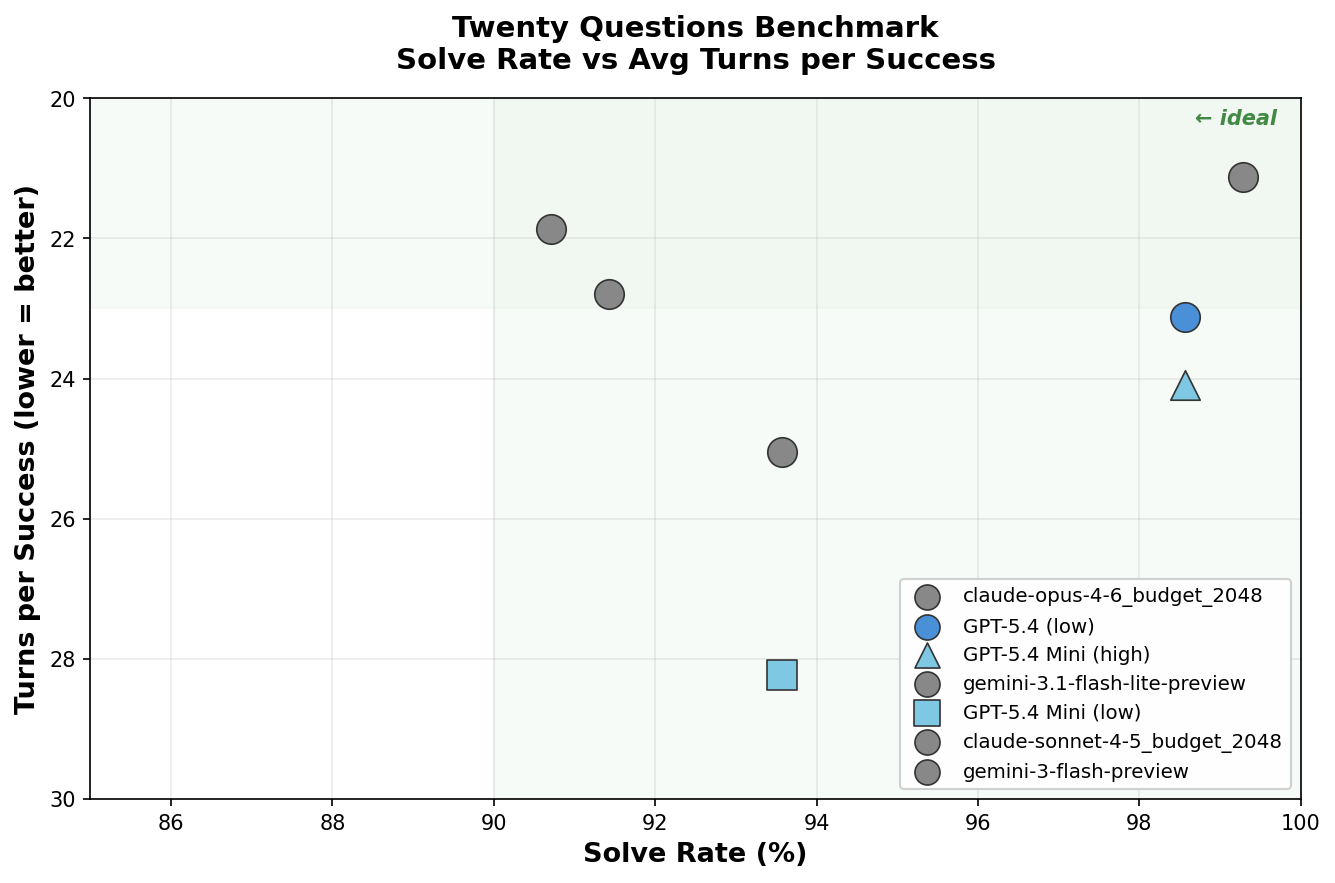
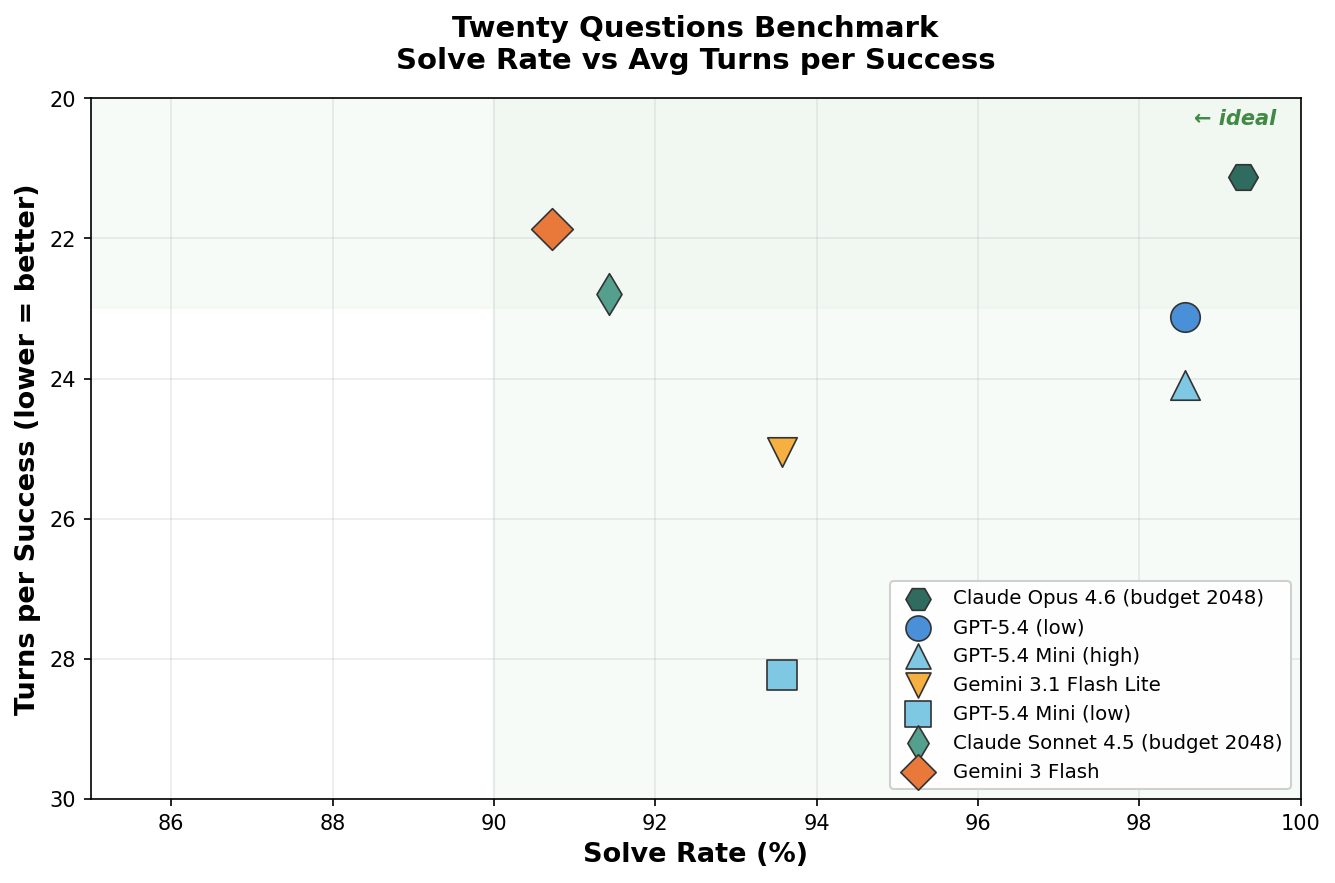
FIX: reasoning effort on figures

diff --git a/analysis/plot_model_overview.py b/analysis/plot_model_overview.py
@@ -15,18 +15,22 @@ _REPO_ROOT = Path(__file__).resolve().parent.parent
 DEFAULT_INPUT_PATH = _REPO_ROOT / "results" / "results.csv"
 DEFAULT_OUTPUT_PATH = _REPO_ROOT / "img" / "model_overview.png"
 
-# Keys are guesser_w_effort values (model_id + "_" + reasoning_effort).
+# Keys are raw guesser_w_effort values from results.csv.
 LABEL_MAP: dict[str, str] = {
     "gpt-5.4_low": "GPT-5.4 (low)",
     "gpt-5.4_high": "GPT-5.4 (high)",
     "gpt-5.4-mini_low": "GPT-5.4 Mini (low)",
     "gpt-5.4-mini_high": "GPT-5.4 Mini (high)",
+    "gemini-3-flash-preview": "Gemini 3 Flash",
     "gemini-3-flash-preview_low": "Gemini 3 Flash (low)",
     "gemini-3-flash-preview_high": "Gemini 3 Flash (high)",
+    "gemini-3.1-flash-lite-preview": "Gemini 3.1 Flash Lite",
     "gemini-3.1-flash-lite-preview_low": "Gemini 3.1 Flash Lite (low)",
     "gemini-3.1-flash-lite-preview_high": "Gemini 3.1 Flash Lite (high)",
+    "claude-opus-4-6_budget_2048": "Claude Opus 4.6 (budget 2048)",
     "claude-opus-4-6_low": "Claude Opus 4.6 (low)",
     "claude-opus-4-6_high": "Claude Opus 4.6 (high)",
+    "claude-sonnet-4-5_budget_2048": "Claude Sonnet 4.5 (budget 2048)",
     "claude-sonnet-4-5_low": "Claude Sonnet 4.5 (low)",
     "claude-sonnet-4-5_high": "Claude Sonnet 4.5 (high)",
     "claude-3-7-sonnet-20250219_low": "Claude 3.7 Sonnet (low)",
@@ -40,12 +44,16 @@ _STYLE: dict[str, tuple[str, str]] = {
     "gpt-5.4_high":                         ("#4A90D9", "*"),
     "gpt-5.4-mini_low":                     ("#7EC8E3", "s"),
     "gpt-5.4-mini_high":                    ("#7EC8E3", "^"),
+    "gemini-3-flash-preview":               ("#E8793A", "D"),
     "gemini-3-flash-preview_low":           ("#E8793A", "D"),
     "gemini-3-flash-preview_high":          ("#E8793A", "p"),
+    "gemini-3.1-flash-lite-preview":        ("#F5B041", "v"),
     "gemini-3.1-flash-lite-preview_low":    ("#F5B041", "v"),
     "gemini-3.1-flash-lite-preview_high":   ("#F5B041", "h"),
+    "claude-opus-4-6_budget_2048":          ("#2F6B5F", "H"),
     "claude-opus-4-6_low":                  ("#2F6B5F", "P"),
     "claude-opus-4-6_high":                 ("#2F6B5F", "H"),
+    "claude-sonnet-4-5_budget_2048":        ("#53A08E", "d"),
     "claude-sonnet-4-5_low":                ("#53A08E", "X"),
     "claude-sonnet-4-5_high":               ("#53A08E", "d"),
     "claude-3-7-sonnet-20250219_low":       ("#8CC7B8", ">"),
@@ -142,6 +150,9 @@ def render_plot(rows: list[PlotRow], output_path: Path) -> None:
 
     x_min, x_max, y_min, y_max = _axis_limits(rows)
     fig, ax = plt.subplots(figsize=(9, 6))
+    unmatched_style_keys = sorted({row.model_id for row in rows if row.model_id not in _STYLE})
+    if unmatched_style_keys:
+        print(f"Warning: using fallback scatter style for {', '.join(unmatched_style_keys)}")
 
     # Highlight "ideal" quadrant (high solve rate, low turns)
     ax.axvspan(max(x_min, x_max - 10.0), x_max, color="#e8f5e9", alpha=0.35, zorder=0)
@@ -157,7 +168,7 @@ def render_plot(rows: list[PlotRow], output_path: Path) -> None:
             x,
             y,
             s=200,
-            c=color,
+            color=color,
             marker=marker,
             edgecolors="#333333",
             linewidths=0.8,

diff --git a/analysis/plot_weighted_efficiency.py b/analysis/plot_weighted_efficiency.py
@@ -15,6 +15,27 @@ _REPO_ROOT = Path(__file__).resolve().parent.parent
 DEFAULT_INPUT_PATH = _REPO_ROOT / "results" / "results.csv"
 DEFAULT_OUTPUT_PATH = _REPO_ROOT / "img" / "weighted_efficiency_ranking.png"
 
+LABEL_MAP: dict[str, str] = {
+    "gpt-5.4_low": "GPT-5.4 (low)",
+    "gpt-5.4_high": "GPT-5.4 (high)",
+    "gpt-5.4-mini_low": "GPT-5.4 Mini (low)",
+    "gpt-5.4-mini_high": "GPT-5.4 Mini (high)",
+    "gemini-3-flash-preview": "Gemini 3 Flash (low)",
+    "gemini-3-flash-preview_low": "Gemini 3 Flash (low)",
+    "gemini-3-flash-preview_high": "Gemini 3 Flash (high)",
+    "gemini-3.1-flash-lite-preview": "Gemini 3.1 Flash Lite (low)",
+    "gemini-3.1-flash-lite-preview_low": "Gemini 3.1 Flash Lite (low)",
+    "gemini-3.1-flash-lite-preview_high": "Gemini 3.1 Flash Lite (high)",
+    "claude-opus-4-6_budget_2048": "Claude Opus 4.6 (budget 2048)",
+    "claude-opus-4-6_low": "Claude Opus 4.6 (low)",
+    "claude-opus-4-6_high": "Claude Opus 4.6 (high)",
+    "claude-sonnet-4-5_budget_2048": "Claude Sonnet 4.5 (budget 2048)",
+    "claude-sonnet-4-5_low": "Claude Sonnet 4.5 (low)",
+    "claude-sonnet-4-5_high": "Claude Sonnet 4.5 (high)",
+    "claude-3-7-sonnet-20250219_low": "Claude 3.7 Sonnet (low)",
+    "claude-3-7-sonnet-20250219_high": "Claude 3.7 Sonnet (high)",
+}
+
 
 @dataclass(frozen=True)
 class RunRecord:
@@ -162,25 +183,11 @@ def plot_scores_matplotlib(scores: list[ModelScore], output_path: Path) -> None:
         print("matplotlib not found, skipping plot. Please install matplotlib.")
         return
 
-    LABEL_MAP: dict[str, str] = {
-        "gpt-5.4_low": "GPT-5.4 (low)",
-        "gpt-5.4_high": "GPT-5.4 (high)",
-        "gpt-5.4-mini_low": "GPT-5.4 Mini (low)",
-        "gpt-5.4-mini_high": "GPT-5.4 Mini (high)",
-        "gemini-3-flash-preview_low": "Gemini 3 Flash (low)",
-        "gemini-3-flash-preview_high": "Gemini 3 Flash (high)",
-        "gemini-3.1-flash-lite-preview_low": "Gemini 3.1 Flash Lite (low)",
-        "gemini-3.1-flash-lite-preview_high": "Gemini 3.1 Flash Lite (high)",
-        "claude-opus-4-6_low": "Claude Opus 4.6 (low)",
-        "claude-opus-4-6_high": "Claude Opus 4.6 (high)",
-        "claude-sonnet-4-5_low": "Claude Sonnet 4.5 (low)",
-        "claude-sonnet-4-5_high": "Claude Sonnet 4.5 (high)",
-        "claude-3-7-sonnet-20250219_low": "Claude 3.7 Sonnet (low)",
-        "claude-3-7-sonnet-20250219_high": "Claude 3.7 Sonnet (high)",
-    }
-
     y_labels = [LABEL_MAP.get(row.guesser_w_effort, row.guesser_w_effort) for row in scores]
     y_positions = list(range(len(scores)))
+    unmatched_label_keys = sorted({row.guesser_w_effort for row in scores if row.guesser_w_effort not in LABEL_MAP})
+    if unmatched_label_keys:
+        print(f"Warning: using raw labels for {', '.join(unmatched_label_keys)}")
 
     fig, ax = plt.subplots(figsize=(10, max(4.5, 0.85 * len(scores))))
 
